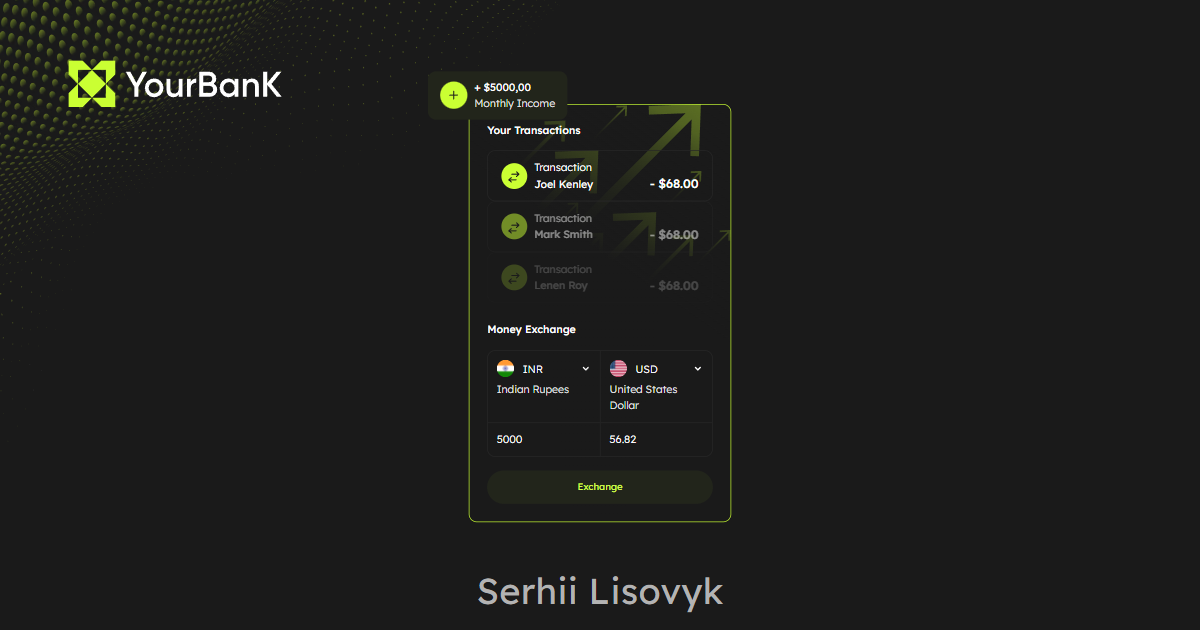
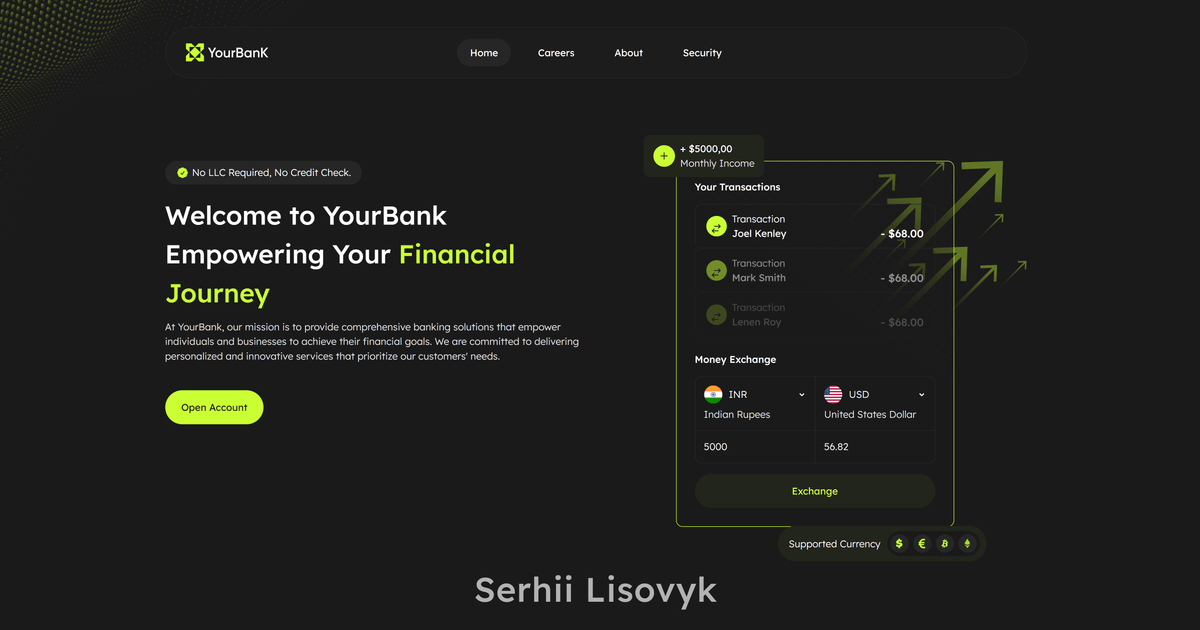
feat: a link preview image made from the Home header and hero
Supersedes the link-previews record.

diff --git a/src/data/site.js b/src/data/site.js
@@ -6,6 +6,6 @@ export const site = {
     src: '/og-image.png',
     width: 1200,
     height: 630,
-    alt: 'The YourBank logo next to the Home transactions and money exchange card, with the name Serhii Lisovyk',
+    alt: 'The YourBank home page header and hero: Welcome to YourBank, Empowering Your Financial Journey, the Open Account button and the transactions and money exchange card, with the name Serhii Lisovyk',
   },
 }

diff --git a/ai/decisions/2026-10-25-link-preview-home-hero.md b/ai/decisions/2026-10-25-link-preview-home-hero.md
@@ -1,0 +1,33 @@
+# Link previews: the preview image is the Home header and hero
+
+Date: 2026-10-25 · Status: accepted
+
+## Context
+
+`link-previews` described the preview as the logo, the hero card and the author's name on a flat
+background. The image the author wants shows what a visitor sees first: the header and the whole hero
+of Home, so a shared link looks like the site.
+
+## Decision
+
+- **The image:** `public/og-image.png`, 1200×630, PNG under 300 kB: the real Home header and hero
+  (logo, navigation, the headline, the Open Account button, the transactions and exchange card) on the site
+  background with its dotted decor, scaled to fit, and the author's name centred at the bottom. Its `og:image:alt`
+  is `site.image.alt` in `data/site.js`.
+- **Made once, by hand:** a headless-browser screenshot of the built Home at its 1920 px layout, the other
+  sections hidden, the name added to the page for the shot, then resized and compressed with `sharp`. The repo
+  keeps the PNG, not a generator.
+- **Stays from `link-previews`:** one head partial writes the tags for all four pages; `site.url` is the one
+  place the production origin is written; one image for the whole site, at a fixed name in `public/` so a crawler's cached URL
+  stays valid, and `vercel.json` unchanged; `dist/404.html` carries Home's tags; the SVG favicon sits in
+  `public/` for the same reason.
+
+## Consequences
+
+- The image shows the hero as of the day it was made; a new look of the hero does not force a new image, the
+  author decides when to remake it.
+- A preview or a local build still points its tags at production, which is intended; a new page needs a
+  `path`, a `title` and a `description` in `data/pages.js` and nothing else.
+- Rejected: a hashed image in `assets/` (its URL changes with every rebuild); an image per page or one generated at
+  build time (a browser in the build for four pages); a composition drawn by hand in a design tool (it would
+  drift from the real page).

diff --git a/ai/decisions/README.md b/ai/decisions/README.md
@@ -73,7 +73,7 @@ each with the record that replaced it.
 - [Touch targets: the drawn size stays, the hit area grows to 44 px](2026-10-24-touch-targets-hit-area.md)
 - [Reveal on scroll: opt-in, hidden only behind a script class, never the first screen](2026-10-24-reveal-on-scroll.md)
 - [Open Account leads to Our Products, the tab in the address](2026-10-24-open-account-to-products.md)
-- [Link previews: one image and the origin, fixed by hand in `public/` and `data/site.js`](2026-10-24-link-previews.md)
+- [Link previews: the Home header and hero as the one image, the origin, fixed by hand in `public/` and `data/site.js`](2026-10-25-link-preview-home-hero.md)
 - [Search files are hand-written in `public/`; the JSON-LD comes from `data/`](2026-10-24-seo-files-in-public.md)
 - [Font: preloaded, a plain fallback stack, a small swap shift accepted](2026-10-25-font-stack-no-fallback-face.md)
 
@@ -83,3 +83,4 @@ each with the record that replaced it.
 - [CI on GitHub Actions and size-limit: the checks and the size limits](2026-10-24-ci-size-limit.md) — superseded by `ci-size-limit-photos`
 - [CI on GitHub Actions and size-limit: the checks, the size limits, room for the page photos](2026-10-24-ci-size-limit-photos.md) — superseded by `ci-size-limit-css-room`
 - [Lighthouse 100: the font loads early and swaps without a shift; what is left alone](2026-10-24-lighthouse-100.md) — superseded by `font-stack-no-fallback-face`
+- [Link previews: one image and the origin, fixed by hand in `public/` and `data/site.js`](2026-10-24-link-previews.md) — superseded by `link-preview-home-hero`

diff --git a/ai/map.md b/ai/map.md
@@ -12,7 +12,7 @@ Navigation only: where things live and who owns what. How it works is in the cod
 - `src/styles/` — all CSS (below). `src/scripts/` — all JavaScript (below).
 - `src/assets/` — `fonts/`, `images/`: referenced as `/assets/…`, bundled and hashed (below).
 - `public/` — files that need a fixed URL, served as they are: `favicon.svg`, `og-image.png` (the link
-  preview), `robots.txt`, `sitemap.xml`, `llms.txt`, `logo.svg` (for the JSON-LD).
+  preview: the Home header and hero, the author's name), `robots.txt`, `sitemap.xml`, `llms.txt`, `logo.svg` (for the JSON-LD).
 - `vite.config.js` — only re-exports `vite/config.js` (Vite: `root: 'src'`, output `dist/` at the repo root). `vite/paths.js` — the
   path constants and the pages (`PAGES`, the Rollup inputs); `vite/parts/` — one module per concern (`build`, `plugins`, `handlebars`,
   `image-optimizer`); `vite/handlebars/` — `helpers.js` (`eq`) and `context.js` (`context(pagePath)`: the current `page` and the `data/` constants).

diff --git a/ai/rules/assets-performance.md b/ai/rules/assets-performance.md
@@ -49,7 +49,8 @@ decision `vanilla-js-vite-handlebars`.
   equal to the language of its content.
 - Absolute URLs (canonical, `og:url`, `og:image`) are built from `site.url`, never written out. The
   link preview is one 1200×630 PNG under 300 kB in `public/` (a fixed name: crawlers cache the
-  URL), with `og:image:alt`.
+  URL), with `og:image:alt`: the Home header and hero scaled to fit and the author's name at the
+  bottom centre, made once from the real page (decision `link-preview-home-hero`).
 - The head holds only what the page needs: the stylesheet, the one script entry, the
   metadata.
 

diff --git a/ai/decisions/2026-10-24-link-previews.md b/ai/decisions/2026-10-24-link-previews.md
@@ -1,6 +1,6 @@
 # Link previews: one image and the origin, fixed by hand in `public/` and `data/site.js`
 
-Date: 2026-10-24 · Status: accepted
+Date: 2026-10-24 · Status: superseded by `link-preview-home-hero`
 
 ## Context
 
